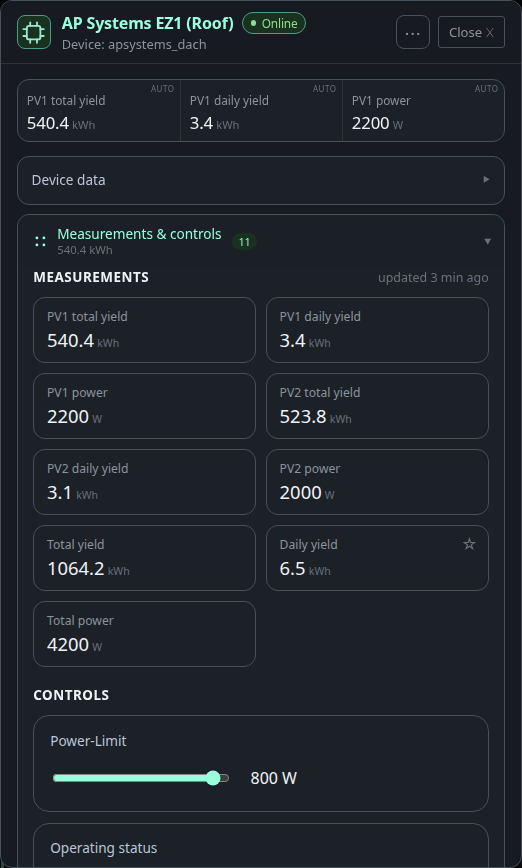
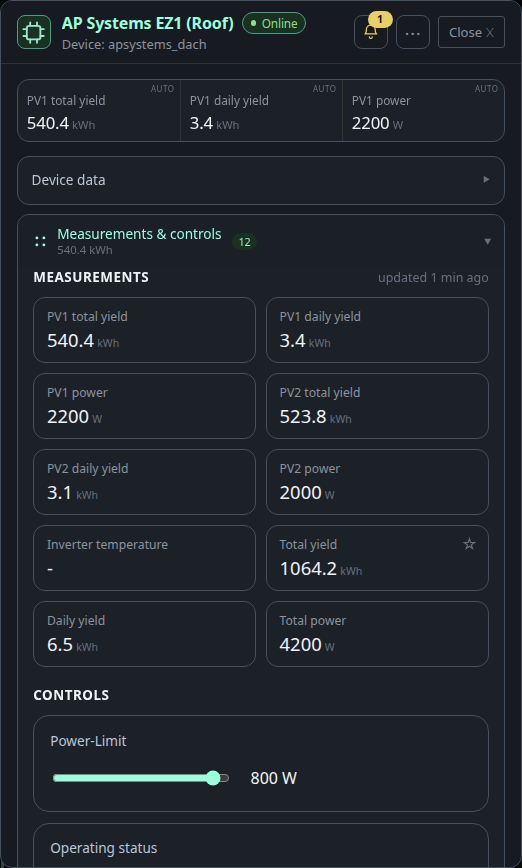
docs(dashboard): show the hint bell in the device dialog image and add the paired Home Assistant section (#272)
Updates the docs images for features that came with #253 and #266. The docs fixture gets an inverter temperature on the AP Systems device that never sends a value, so the device dialog image shows the hint bell with one hint and the Analysis tab image shows its open popover. The device list image shows the extra entity.

A new image shows the Home Assistant section of the users page with a paired companion and the switch for HTTPS actions. The screenshot script pairs the fake companion itself before it shoots it. Both are described on the device dialog and users pages.

diff --git a/dashboard/CHANGELOG.md b/dashboard/CHANGELOG.md
@@ -1,6 +1,6 @@
 # Changelog
 
-## v0.11.19 (2026-11-16)
+## v0.11.20 (2026-11-16)
 
 ### Features
 
@@ -19,14 +19,18 @@
 
 - **webui:** keep the backup page visible with a hint when HTTPS is missing (#246) (ce09ea7)
 - **system:** do not report an error when a reboot stops the dashboard (#249) (85d32cf)
+- **system:** cut SD card writes from tailscaled logs and runtime.json (#271) (05dc304)
 - **dashboard:** write runtime.json compactly and once more on shutdown (8b4de92)
 - **dashboard:** save the last known values every 30 minutes by default (eae1fa6)
-- **system:** cut SD card writes from tailscaled logs and runtime.json (#271)
 - **onboarding:** show the hint bell in its tour and simplify the Home Assistant step (be8d4b3)
 - **onboarding:** drop the companion step up front and switch the hint bell tour to the detail view (00d1d5e)
 - **onboarding:** show a step with an unmet when condition with a note instead of dropping it (87313a3)
 - **onboarding:** keep a tour step on screen when its target is gone and pass when/unmet to the bar (44f6f58)
 - **devices:** color the hint rows by severity (28f79d3)
+
+### Documentation
+
+- **dashboard:** show the hint bell in the device dialog image and add the paired Home Assistant section (#272)
 
 ### Tests
 

diff --git a/docs/dashboard/device-modal.md b/docs/dashboard/device-modal.md
@@ -92,6 +92,10 @@ each warning. Users with the [device analysis right](#rights) also get a
 **Details in Analysis** link there, which opens the Analysis tab at the
 **Operation** group. Escape closes the popover and nothing else.
 
+The screenshot at the top of this page shows the bell: one value of the device,
+the inverter temperature, has not been updated, so the device has one hint. The
+screenshot of the [Analysis tab](#analysis) shows the popover of that hint.
+
 ## Analysis
 
 The last tab is labelled **Analysis**. It is only shown to users with the

diff --git a/docs/dashboard/settings-users.md b/docs/dashboard/settings-users.md
@@ -125,6 +125,8 @@ dashboard:
    [Setup and options](../ha/companion-setup.md#pair-with-the-dashboard).
 3. The section shows *paired* with the date and the last connection.
 
+![The Home Assistant section of a paired companion with the switch for HTTPS actions](../images/dashboard-settings-users-home-assistant.png)
+
 Every Home Assistant user who signs in gets a card tagged *Home Assistant*.
 It follows the preset HA administrators or HA users. **Set permissions
 individually** gives the account its own list. Its password is changed in Home

diff --git a/installer/webui/CHANGELOG.md b/installer/webui/CHANGELOG.md
@@ -4,9 +4,9 @@
 
 ### Fixes
 
+- **system:** cut SD card writes from tailscaled logs and runtime.json (#271) (05dc304)
 - **installer:** offer the tailscaled log step after Tailscale (d0718ef)
 - **installer:** name the skip reason of the tailscaled log step (4e9fcaa)
-- **system:** cut SD card writes from tailscaled logs and runtime.json (#271)
 
 ## v0.3.2 (2026-11-07)
 

diff --git a/installer/CHANGELOG.md b/installer/CHANGELOG.md
@@ -4,8 +4,8 @@
 
 ### Fixes
 
+- **system:** cut SD card writes from tailscaled logs and runtime.json (#271) (05dc304)
 - **installer:** offer the tailscaled log step after Tailscale (d0718ef)
-- **system:** cut SD card writes from tailscaled logs and runtime.json (#271)
 
 ## v0.3.2 (2026-11-07)
 

diff --git a/scripts/bootstrap/CHANGELOG.md b/scripts/bootstrap/CHANGELOG.md
@@ -4,8 +4,8 @@
 
 ### Fixes
 
+- **system:** cut SD card writes from tailscaled logs and runtime.json (#271) (05dc304)
 - **bootstrap:** keep the tailscaled log buffer in RAM (c9141bd)
-- **system:** cut SD card writes from tailscaled logs and runtime.json (#271)
 
 ## v0.3.2 (2026-11-07)
 
